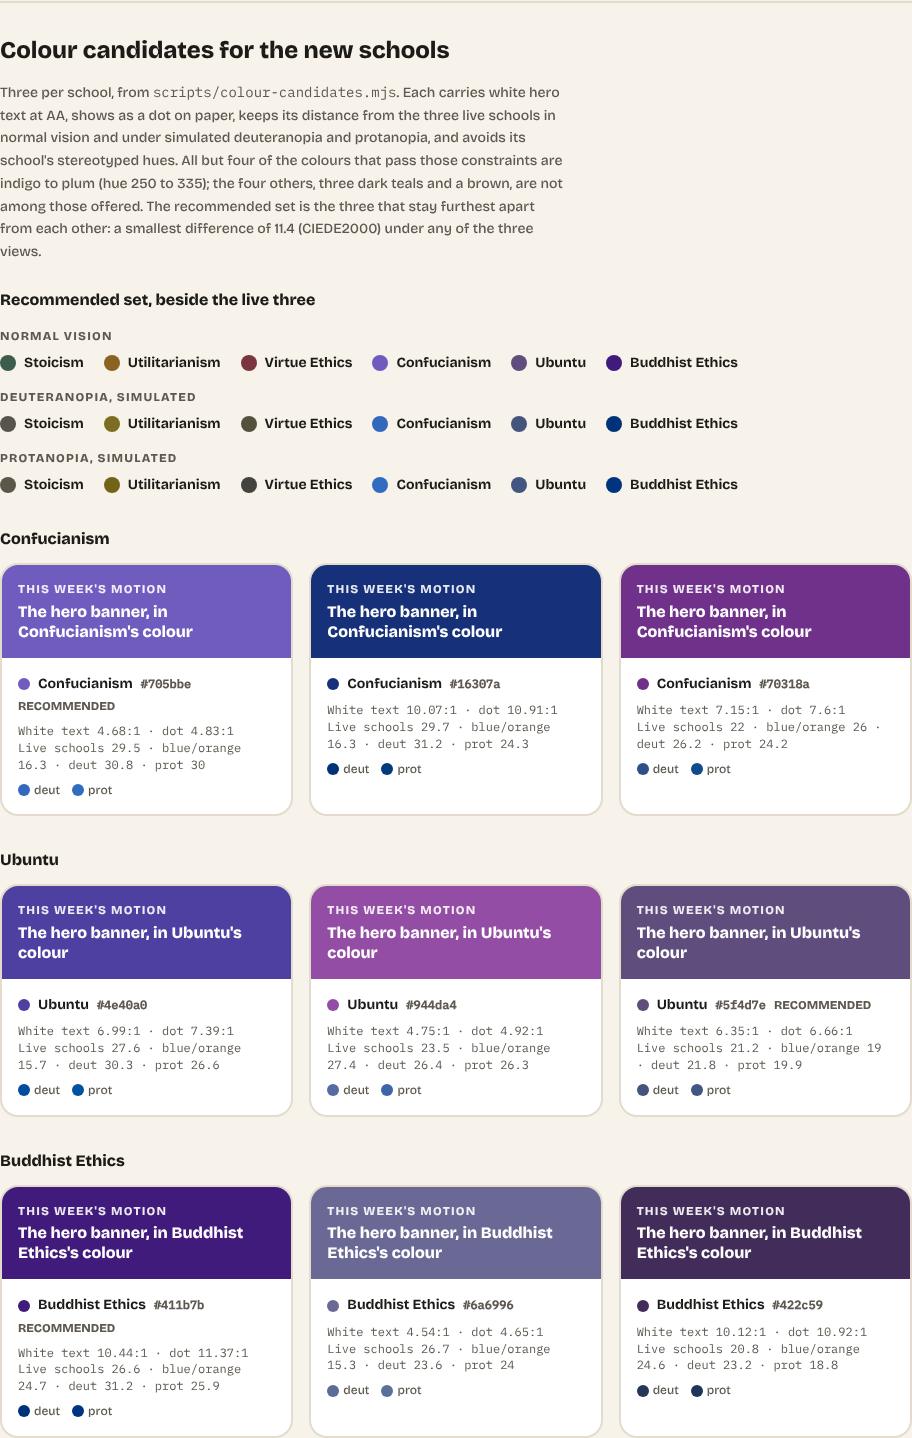
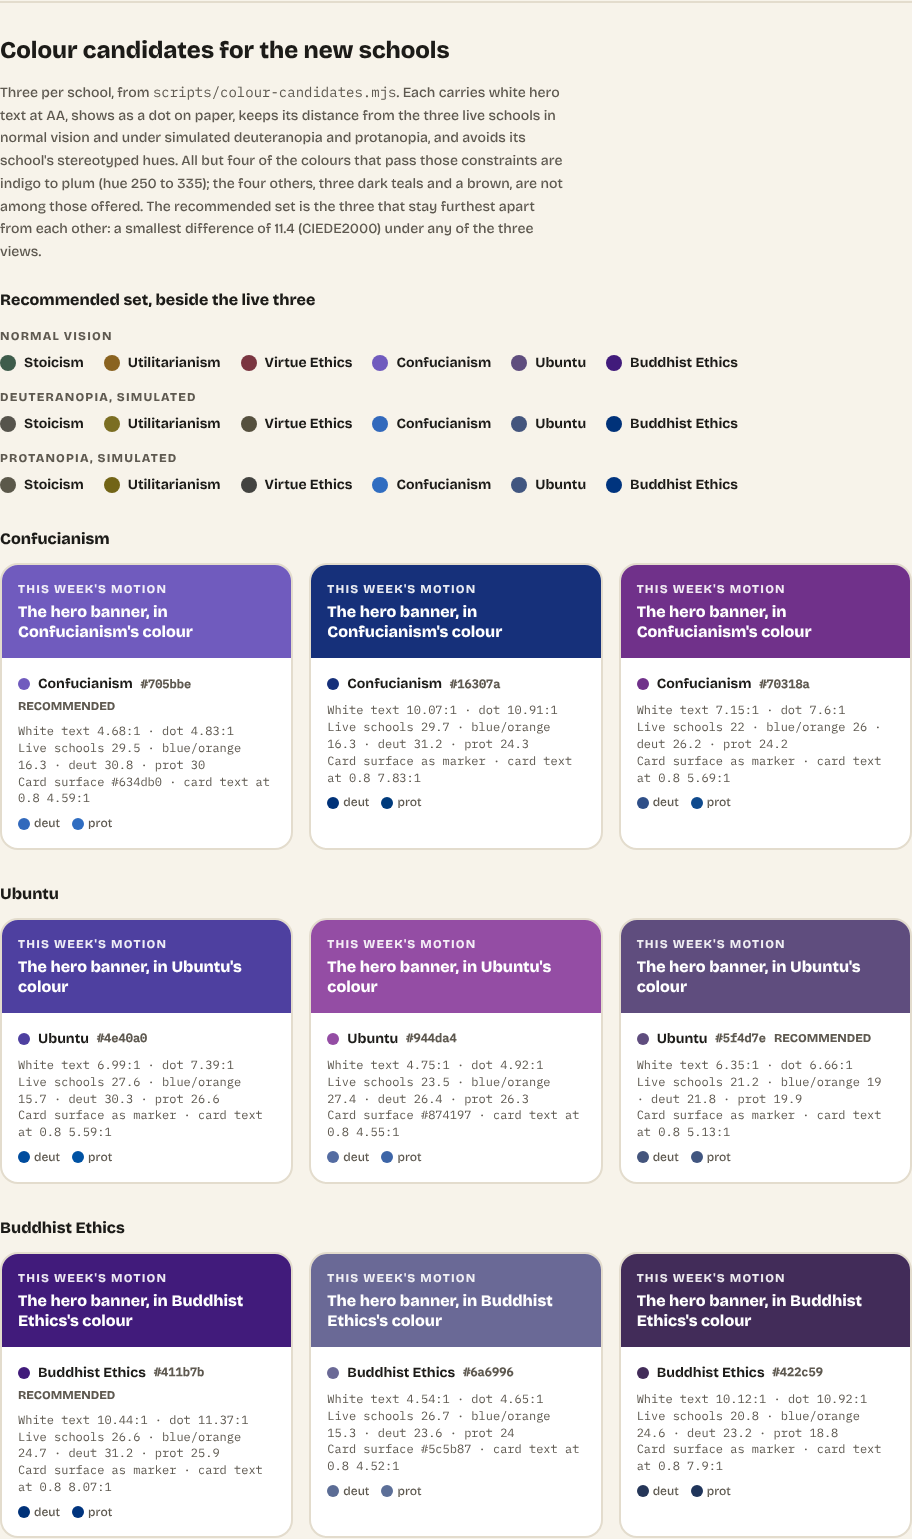
Fix what review pass 2 found on #55
- Blocking: 191f9c5 committed this worktree's node_modules symlink, which
  .gitignore's "node_modules/" did not match (a trailing slash matches
  directories only). Merged, it would have replaced the main checkout's
  node_modules with a link to itself. Removed from the index, and the
  pattern is now "node_modules", which matches a link too.
- "Darkened" was true for one surface of three: the page and the route
  now say the marker is darkened only where the card text would fall
  below AA, and that only Confucianism's needed it; matching the live
  schools' darker surfaces is left to Arthur.
- The copy doc gives the rank cell as the live table's null glyph and
  "Not ranked yet", as the component does; each candidate card shows
  its card surface and that ratio; the surface loop counts in integers
  (the JSON is byte-identical); the brief is said to be uncommitted.

Claude-Session: https://claude.ai/code/session_01GvBaXZx1cPn5VLqZ4u2xaU

Changed region(s): [[0.0, 0.0306, 1.0, 1.0]]

diff --git a/src/app/styleguide/phase3/page.tsx b/src/app/styleguide/phase3/page.tsx
@@ -207,9 +207,10 @@ export default function Phase3Page() {
       <Section title="Result cards, six schools">
         <p className="mb-4 max-w-[62ch] text-sm text-ink-mid">
           Each school&apos;s own one_line at the card&apos;s 1200 by 630. The new schools use a card
-          surface derived from the recommended candidate: the same hue, darkened until the card&apos;s
-          text reads at AA at its lowest opacity, as the live schools&apos; surfaces are darker than
-          their markers.
+          surface derived from the recommended candidate: the same hue, darkened only where the
+          card&apos;s text would otherwise fall below AA at its lowest opacity. Of the three, only
+          Confucianism&apos;s needed it. The live schools&apos; surfaces are all darker than their
+          markers; whether the new ones should be too is Arthur&apos;s to decide.
         </p>
         <div className="grid gap-6">
           {ALL.map((id) => {
@@ -356,6 +357,9 @@ function CandidateCard({
           <br />
           Live schools {c.minDeltaE} &middot; blue/orange {c.minDeltaEBlueOrange} &middot; deut{" "}
           {c.minDeltaEDeuteranopia} &middot; prot {c.minDeltaEProtanopia}
+          <br />
+          Card surface {c.cardSurface === c.hex ? "as marker" : c.cardSurface} &middot; card text at 0.8{" "}
+          {c.cardInkAtLowestOpacity}:1
         </p>
         <p className="flex items-center gap-3 text-xs text-ink-mid">
           <span className="flex items-center gap-1">

diff --git a/src/app/styleguide/phase3/card/[school]/route.tsx b/src/app/styleguide/phase3/card/[school]/route.tsx
@@ -22,9 +22,9 @@ export async function GET(_req: Request, { params }: { params: Promise<{ school:
 
   const content = getAllSchools({ includeDrafts: true })[school];
   const draft = (DRAFT_SCHOOL_IDS as readonly SchoolId[]).includes(school);
-  // The recommended candidate's card surface: darker than the marker, as
-  // the live schools' --color-*-surface is, so the card's ink reads at AA
-  // even at its lowest opacity (scripts/colour-candidates.mjs).
+  // The recommended candidate's card surface: the marker, darkened only
+  // where the card's ink would fall below AA at its lowest opacity
+  // (scripts/colour-candidates.mjs; only Confucianism's needed it).
   const surface = draft
     ? (() => {
         const colours = JSON.parse(

diff --git a/src/components/phase3/NavIcons.tsx b/src/components/phase3/NavIcons.tsx
@@ -1,6 +1,7 @@
 /**
  * Candidates for the School table's navigation icon: Phase 3.0 preview
- * only. The brief of 2026-11-03 asks for "a neutral nav icon for School
+ * only. The brief of 2026-11-03 (Arthur's instructions to the session that
+ * built this, not committed to the repo) asks for "a neutral nav icon for School
  * table (the triangle no longer means anything)". The site header's links
  * carry no icons today (src/components/nav/SiteHeader.tsx), so this would
  * add one rather than replace one; the only triangle in src/ is the quiz's

diff --git a/docs/daily-path-copy.md b/docs/daily-path-copy.md
@@ -460,7 +460,8 @@ The axis names are `docs/quiz-v2.md`'s, and change if that draft does.
 
 | Element | Copy |
 |---|---|
-| In place of the rank | `Unranked` |
+| In place of the rank, on screen | the live table's null glyph, `NOTHING` in `src/components/table/SchoolTable.tsx` |
+| In place of the rank, read aloud | `Not ranked yet` (the live table's words) |
 | Under the name | `Ranked once it has {N} judged original arguments. {n} so far.` |
 
 {N} is a threshold Arthur has not set; the preview shows a fixture value
@@ -482,7 +483,8 @@ The passage's own title and source come from its file in `content/micro/`.
 
 ### Navigation
 
-The School table link keeps its label, `School table`. The brief asks for
+The School table link keeps its label, `School table`. The brief of
+2026-11-03 (Arthur's instructions, not in the repo) asks for
 "a neutral nav icon for School table (the triangle no longer means
 anything)"; the header's links carry no icons today, so this would add
 one beside the label, and the preview shows candidates for it.
